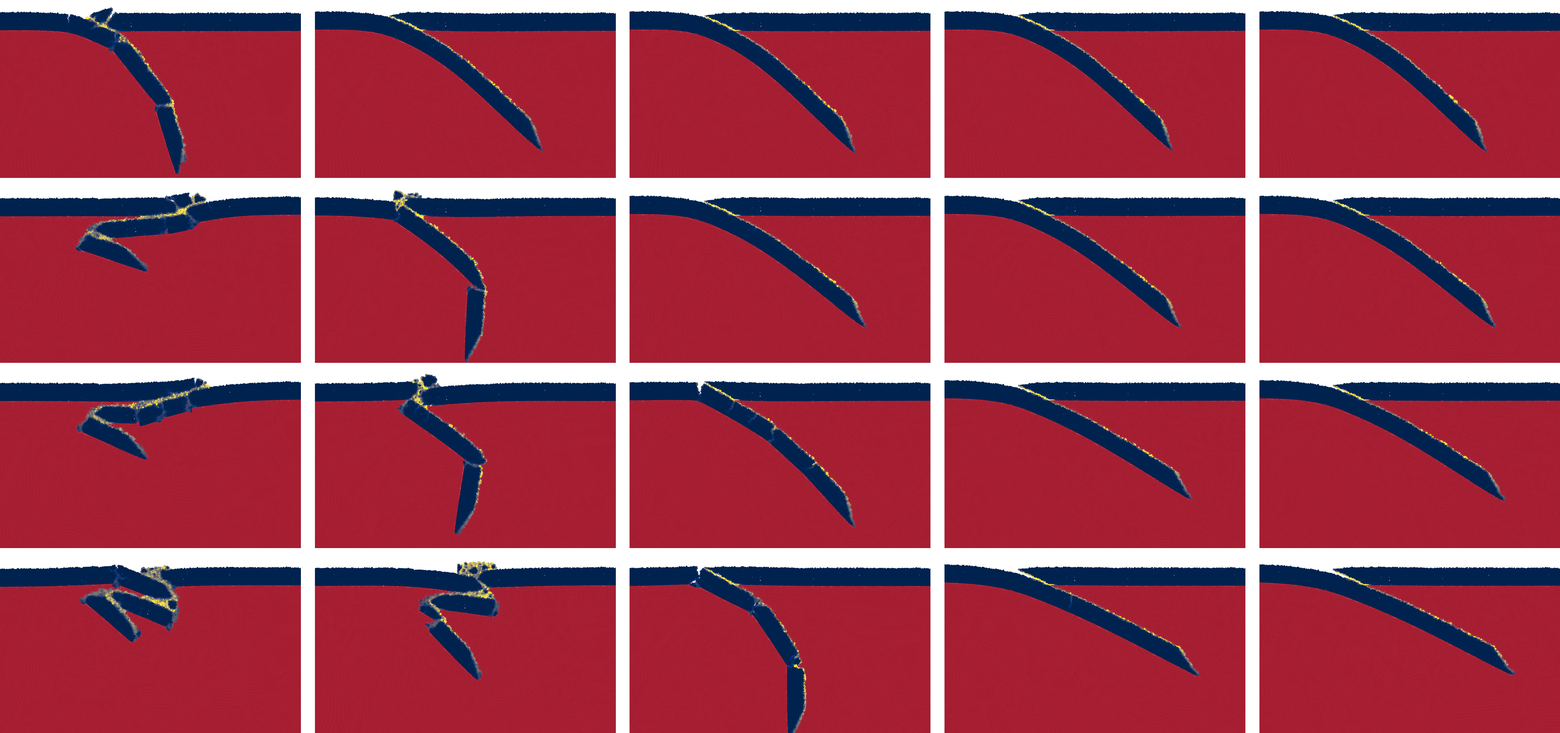
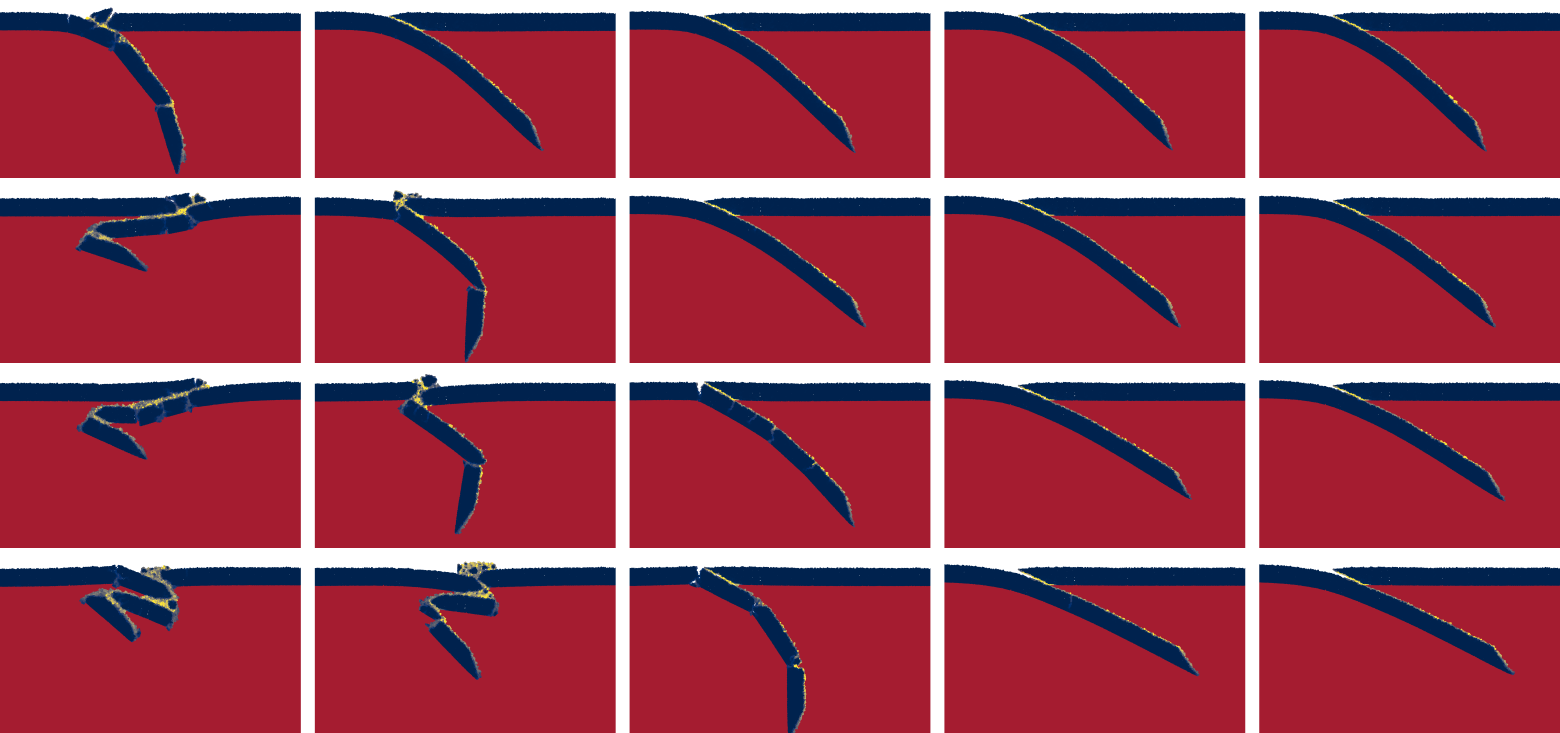
Homepage: hero cut from a 1200 dpi render, mantle gaps filled
The old files were a 300 dpi render, downsampled with Lanczos. At 20 panels in a
780px column a panel is ~150px wide and a grain is under one pixel, so the lattice
of mantle discs aliased into moire rings across the crimson, and a white seam of
pinholes showed along the slab.

Now every mantle disc is also drawn at 1.6x under everything, which fills the
voids, and the files are area averages (BOX) of one 18666px master: 12x
supersampled at 1560, 4x at 4666. Same sizes, same srcset, still lossless. With
the noise gone the files are about 6-12x smaller: 1560 is 0.13 MB, was 0.79.

diff --git a/index.html b/index.html
@@ -54,7 +54,9 @@
   /* The hero files are exactly 1x, 2x and 3x the 780px column (780, 1560 and 2340 wide), so
      the browser draws them pixel for pixel instead of rescaling them. They are lossless because
      lossy WebP keeps colour at half resolution, which smears the yellow specks into the blue.
-     A lossy 1920 copy scaled down to 1560 looked soft for both reasons. width/height are
+     A lossy 1920 copy scaled down to 1560 looked soft for both reasons. Each file is an area
+     average of one 1200 dpi render (12x the 1560 copy), with the mantle's gaps filled: a panel
+     here is only ~150px wide, so any grain lattice left in the image aliases into moire. width/height are
      declared to reserve the right box before the image arrives, which stops the page jumping
      as it loads. */
   .hero {
